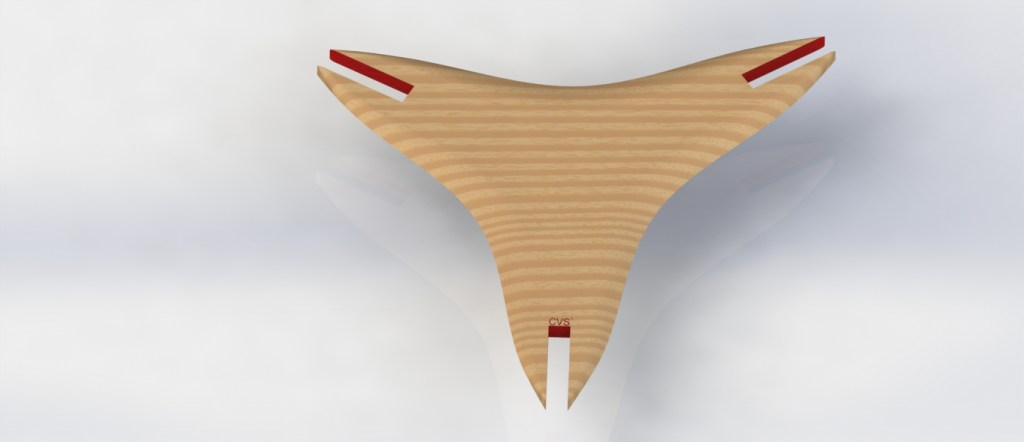
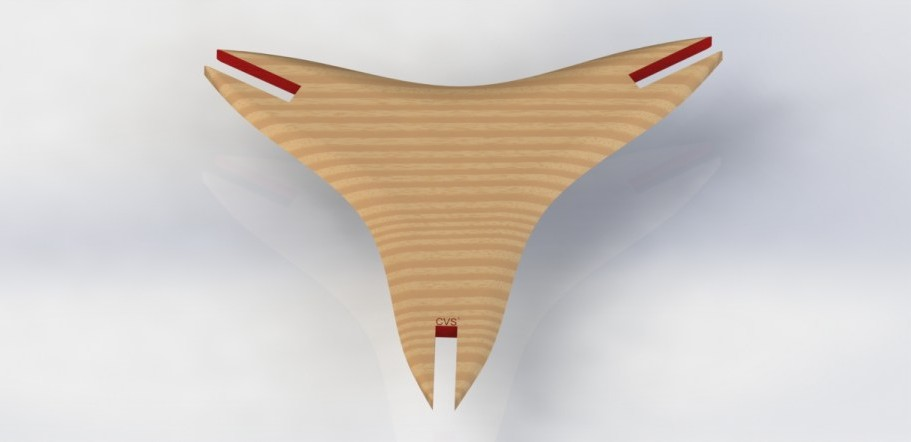
update portfolio content, images, and hero text styling

Changed region(s): [[0.2151, 0.0588, 0.8299, 1.0]]

diff --git a/src/content/pages/ai-hardware.md b/src/content/pages/ai-hardware.md
@@ -3,19 +3,14 @@ title: "ai classroom hardware"
 date: 2024-10-09
 coverImage: "mirror-high-five.gif"
 layoutType: "technical"
+textColor: "black"
 images:
-  - "/images/2023-04-12-10_57_41-greenshot-e1728510886911.png"
   - "/images/mirror-whiteboard-session.png"
   - "/images/mirror-small-group.png"
-  - "/images/mirror-teacher-recording.png"
   - "/images/pxl_20211203_002824160.mp_-3185202769-e1729025421742.jpg"
   - "/images/pxl_20211202_232534805.mp_-2051497039-e1729025410760.jpg"
-  - "/images/pxl_20211202_232531458.mp_-1566207325-e1729025401416.jpg"
   - "/images/pxl_20211021_223714859.mp_.jpg"
-  - "/images/pxl_20211021_224046795.mp_.jpg"
   - "/images/pxl_20211021_225324348.mp_.jpg"
-  - "/images/pxl_20210628_234803498.mp_.jpg"
-  - "/images/pxl_20210628_180836918.mp_.jpg"
   - "/images/pxl_20211022_191926400.mp_.jpg"
   - "/images/pxl_20211012_024155031.mp_.jpg"
   - "/images/pxl_20210816_225646028.mp_.jpg"
@@ -32,9 +27,8 @@ images:
   - "/images/pxl_20230822_224554640.jpg"
 ---
 
-_With the help of AI, Mirror fully automates the reflection process for students while its unique design allows the device to be set up anywhere._  
+_The goal of this project was to leverage AI to automate the reflection process for students with its rugged design allowing for use anywhere._  
   
-_[\- Swivl](https://www.swivl.com/)_
 
 As one of only two engineers on this project, I was involved in every part of every phase - from pre-concept development to the first shipments. The product is a battery powered integrated speaker, friction hinge mounted touch display, microphone array, and camera with an IR tracking remote packaged in a ruggedized form custom designed for the classroom.
 
@@ -42,31 +36,17 @@ As one of only two engineers on this project, I was involved in every part of ev
 
 My focus of interest was on Experience Design, approaching questions like: What diameter does a hand want for the rollbar/handle system? What is the optimal display size for human-like interaction? How vital is audio to creating an immersive, real-person feel? Do red LEDs look scary? To answer these questions, I led extensive brainstorming, iterative design cycles, and limited scale user testing at all stages of product development.
 
-![Whiteboard Session](/images/mirror-whiteboard-session.png)
-![Small Group Session](/images/mirror-small-group.png)
 ![Teacher Recording](/images/mirror-teacher-recording.png)
 
 Dividing responsibilities between the two engineers, I owned the Remote, the protective hinge and roll-cage system, and all interfaces with cables, accessories, and docking. I also initially lead PN and BOM control. After my colleague left before project completion, I inherited the entire mechanical system for a time, ensuring continuity and successful delivery.
 
-### Media Gallery
-- ![](/images/pxl_20211203_002824160.mp_-3185202769-e1729025421742.jpg)
-- ![](/images/pxl_20211202_232534805.mp_-2051497039-e1729025410760.jpg)
-- ![](/images/pxl_20211202_232531458.mp_-1566207325-e1729025401416.jpg)
-
 Prototyping was the main driver to our design cycles. There was constant iteration with materials from pine 2x4s, to repurposed products with in-house 3d printed housings, to professional out-sourced prototypes. Prototypes included looks-like and works-like of the full assembly, subassemblies, accessories, and single parts.
 
-![Prototype 1](/images/pxl_20211021_223714859.mp_.jpg)
-![Prototype 2](/images/pxl_20211021_224046795.mp_.jpg)
-![Prototype 3](/images/pxl_20211021_225324348.mp_.jpg)
 ![Prototype 4](/images/pxl_20210628_234803498.mp_.jpg)
-![Prototype 5](/images/pxl_20210628_180836918.mp_.jpg)
-![Prototype 6](/images/pxl_20211022_191926400.mp_.jpg)
+
 
 Material studies were always a good source of information and inspiration. purchasing products for multiple team members or shipping samples proved an effective means of communication throughout this project. Although nothing could beat a few in-person sessions to drive points home efficiently.
 
-![Material Study 1](/images/pxl_20211012_024155031.mp_.jpg)
-![Material Study 2](/images/pxl_20210816_225646028.mp_.jpg)
-![Material Study 3](/images/pxl_20210817_163244849.mp_.jpg)
 
 A large part of my time was spent troubleshooting key user experience elements like speaker requirements, ensuring optimal performance across all orientations and environments while working closely with fancy audio consultants.
 

diff --git a/src/content/pages/cubert.md b/src/content/pages/cubert.md
@@ -5,7 +5,6 @@ coverImage: "708ee-87d8fb_8ac065e1df474288a64120cb3bb85575mv2.png"
 layoutType: "technical"
 images:
   - "/images/a7f8b-87d8fb_943a82df83fe430bb4b09da7b84bf121mv2.png"
-  - "/images/ab737-87d8fb_edf26a64fdec4bae898c34ba8a3a71c6mv2.jpg"
   - "/images/3ef2b-87d8fb_8c8603bb706340ababcdb353d5ba3396mv2.png"
   - "/images/dfabf-87d8fb_eb2e988f075b47239770366c4732a822mv2_d_2898_3353_s_4_2.png"
   - "/images/e9062-87d8fb_2dff519730aa4c41b771420b57241acamv2_d_2959_3865_s_4_2.png"
@@ -14,19 +13,20 @@ images:
   - "/images/073e9-87d8fb_62d085a0a8aa40c29ade1bcf03149a89mv2_d_2500_1875_s_2.jpg"
   - "/images/d2dda-87d8fb_a8a8fb5462f14fa5bccf26fb4baa2ae1mv2.jpg"
   - "/images/bd937-87d8fb_a8b2ce743cd942e487fca20a0e525bbemv2.jpg"
-  - "/images/11b1c-87d8fb_169a504af30549868de23833fd8fa139mv2.png"
 ---
 
-**Problem Statement:**  
-The carrying and use of multiple electrical cables easily leads to tangles and damage as well as inefficient utilization.
+_The goal of this university project was to solve a simple problem statement: carrying and using multiple cables is inefficient and the inevitable tangling damages them._
 
-Cubert was designed for young adults with mobile lifestyles. These individuals consistently carry multiple electrical cords to many locations throughout the day. This targeted audience often includes college kids and traveling business men and women. Our team chose this user group in order to broaden our theoretical market as much as possible and fill an empty niche in the electronic hub market.
+Cubert was designed for young adults with mobile lifestyles. These individuals consistently carry multiple electrical cords to many locations throughout the day. My team and I spent a lot of time researching existing competition as we figured there must be a lot out there already; surprisingly there wasn't.
 
-![Design Prototype 1](/images/a7f8b-87d8fb_943a82df83fe430bb4b09da7b84bf121mv2.png)
-![Design Prototype 2](/images/ab737-87d8fb_edf26a64fdec4bae898c34ba8a3a71c6mv2.jpg)
-![Design Prototype 3](/images/3ef2b-87d8fb_8c8603bb706340ababcdb353d5ba3396mv2.png)
+<br />
+<br />
+<br />
+<br />
+<br />
+<br />
 
-My team and I spent a lot of time researching existing competition as we figured there must be a lot out there already; surprisingly there wasn't really. The research, however, did lead us to a host of ideas.
+The research, however, did lead us to a host of ideas.
 
 ![Concept Sketch 1](/images/dfabf-87d8fb_eb2e988f075b47239770366c4732a822mv2_d_2898_3353_s_4_2.png)
 ![Concept Sketch 2](/images/e9062-87d8fb_2dff519730aa4c41b771420b57241acamv2_d_2959_3865_s_4_2.png)
@@ -44,5 +44,3 @@ A major portion of this project was the material research and ultimate choice fo
 ![Final Assembly](/images/11b1c-87d8fb_169a504af30549868de23833fd8fa139mv2.png)
 
 I took this opportunity to integrate electrical engineering interest with my mechanical engineering background and design passion. Thoroughly followed a concise design process with clear benchmarks and milestones, reinforcing good product development practices. I enjoyed brainstorming the details necessary to successfully create the modular design, numerous functionalities and features, and actual usability. In fact, the final prototype was very durable, electrically sound, and surprisingly functional for regular use out in the wild.
-
-[DOWNLOAD PROJECT PRESENTATION](/docs/afbcf-87d8fb_e4c8c189e373489486ae9085036f6478.pdf)

diff --git a/src/content/pages/igloo.md b/src/content/pages/igloo.md
@@ -9,7 +9,7 @@ _The Life & Death of an Igloo in 2015_
 
 We took advantage of the multiple blizzards that hit the northeastern United States in the harsh winter of 2015 and recruited friends and neighbors to build a formidable structure using vernacular architecture techniques.
 
-<div class="space-y-24 mt-20">
+<div class="space-y-24 mt-20 max-w-5xl mx-auto w-full px-4">
 
 <figure>
   <img src="/images/fac8b-87d8fb_fdb0b645e387478fbeaec209a10701c5mv2_d_3264_2448_s_4_2.jpg" alt="Building the base" />
@@ -57,11 +57,6 @@ We took advantage of the multiple blizzards that hit the northeastern United Sta
 </figure>
 
 <figure>
-  <img src="/images/83994-87d8fb_9629c86bc64347aabde7612563fbf2c8mv2_d_2448_3264_s_4_2.jpg" alt="First day progress" />
-  <figcaption>...and got about this far the first day.</figcaption>
-</figure>
-
-<figure>
   <img src="/images/11a1c-87d8fb_8892d2d85ec94e5eaddd5f7ac9431156mv2_d_2448_3264_s_4_2.jpg" alt="Excavation" />
   <figcaption>The excavation took a lot of energy from the crew.</figcaption>
 </figure>
@@ -73,12 +68,7 @@ We took advantage of the multiple blizzards that hit the northeastern United Sta
 
 <figure>
   <img src="/images/d670a-87d8fb_e5ac90a8533047e1ae0ae35a8284e644mv2_d_2816_1880_s_2.jpg" alt="Cleared interior" />
-  <figcaption>Finally cleared most of the unwanted ice and snow out. Could easily fit 5 well-fed college kids in the negative space we had created with our bare hands.</figcaption>
-</figure>
-
-<figure>
-  <img src="/images/71cf8-87d8fb_fab92247f82c4e50a33416514806ec1amv2_d_2816_1880_s_2.jpg" alt="Amenities" />
-  <figcaption>Music and other amenities were often brought along; with innovative installations for placement and acoustics.</figcaption>
+  <figcaption>Finally cleared most of the unwanted ice and snow out. Could easily fit 5 well-fed college kids. Music and other amenities were often brought along; with innovative installations for placement and acoustics.</figcaption>
 </figure>
 
 <figure>
@@ -97,13 +87,8 @@ We took advantage of the multiple blizzards that hit the northeastern United Sta
 </figure>
 
 <figure>
-  <img src="/images/2e7ec-87d8fb_99d6cf83eec34a6b8a046e4d87bd1144mv2_d_2816_1880_s_2.jpg" alt="Environment" />
-  <figcaption>The surrounding environment of the work site and the inspiration.</figcaption>
-</figure>
-
-<figure>
   <img src="/images/2af74-87d8fb_09d82f98d4164e988ecb749df0adfb27mv2_d_3264_2448_s_4_2.jpg" alt="Phase change" />
-  <figcaption>The igloo nearly completed its phase change in about four weeks; which can be used to calculate a rate of 1 igloo per winter season.</figcaption>
+  <figcaption>The igloo nearly completed its phase change (death) in about four weeks; which can be used to calculate a rate of 1 igloo per winter season.</figcaption>
 </figure>
 
 </div>

diff --git a/src/content/pages/wwjdedits.md b/src/content/pages/wwjdedits.md
@@ -25,18 +25,22 @@ gallery2:
   - "il_fullxfull.6975788596_qg04.jpg"
   - "il_fullxfull.7023774595_b8zh.jpg"
   - "il_fullxfull.6975789992_6bl4.jpg"
-  - "il_fullxfull.6981842584_71ti.jpg"
   - "il_fullxfull.7029821665_s0do.jpg"
-  - "il_fullxfull.6981842592_5ed2.jpg"
   - "il_fullxfull.7029821511_etw0.jpg"
-  - "il_fullxfull.6975678414_qk4l.jpg"
   - "il_fullxfull.6975678410_ask9.jpg"
-  - "il_fullxfull.6975678418_6u91.jpg"
-  - "il_fullxfull.7023663053_jfrg.jpg"
-  - "il_fullxfull.6982242178_2emy.jpg"
   - "il_fullxfull.6982242256_lwlh.jpg"
-  - "il_fullxfull.7030220855_a7sv.jpg"
-  - "il_fullxfull.7030220913_fsuh.jpg"
+  - "il_fullxfull.7030132243_6ir3.jpg"
+  - "il_fullxfull.6982153228_byi4.jpg"
+  - "il_fullxfull.6982153390_n6on.jpg"
+  - "il_fullxfull.7030132061_ilt9.jpg"
+  - "il_fullxfull.6975726322_swaw.jpg"
+  - "il_fullxfull.7023710025_hx2t.jpg"
+  - "il_fullxfull.7023710035_6igm.jpg"
+  - "il_fullxfull.7023723339_jgb0.jpg"
+  - "il_fullxfull.6975681594_9wep.jpg"
+  - "il_fullxfull.7023666125_mwqy.jpg"
+  - "il_fullxfull.7023666127_j00j.jpg"
+  - "il_fullxfull.7023666161_rswc.jpg"
   - "il_fullxfull.6975619878_s4o3.jpg"
   - "il_fullxfull.6975620056_qq6c.jpg"
   - "il_fullxfull.7023604615_4pdf.jpg"
@@ -45,6 +49,10 @@ gallery2:
   - "IMG_1226.JPG"
   - "IMG_1230.JPG"
   - "IMG_1234.JPG"
+  - "il_fullxfull.6982015384_rxur.jpg"
+  - "il_fullxfull.6982015388_6l0m.jpg"
+  - "il_fullxfull.6982015392_a2oh.jpg"
+  - "il_fullxfull.6982015716_svr9.jpg"
   - "IMG_1238.JPG"
   - "IMG_1258.JPG"
   - "IMG_1260.JPG"
@@ -57,6 +65,7 @@ gallery2:
   - "IMG_1457.JPG"
   - "IMG_1497.JPG"
   - "IMG_1470.JPG"
+
 ---
 
 _Textile production is the world’s second most polluting industry, second only to the oil industry. <a href="https://pmc.ncbi.nlm.nih.gov/articles/PMC8257395/" target="_blank" class="text-[10px] align-top ml-1 hover:underline text-white/40"><sup>[1]</sup></a>_

diff --git a/src/content/pages/automotive-uim.md b/src/content/pages/automotive-uim.md
@@ -21,9 +21,9 @@ images:
   - "/images/3c54f-87d8fb_67a48e1de3484b8ca07f971b6e8a54dfmv2_d_2985_3980_s_4_2.jpg"
 ---
 
-![Header Image](/images/bb857-87d8fb_b72b4a631e574a71832b4d1848805cc7mv2_d_4141_2083_s_2.jpg)
+_The goal of this project was to safely mount a custom user interface module connected to our BAC sensor systems for in-vehicle testing and looking good on tv._
 
-_See the completed project on the local news: <a href="https://www.kpax.com/news/national/under-proposed-law-alcohol-sensors-could-become-as-commonplace-as-airbags-in-new-vehicles" target="_blank" class="underline hover:text-white/80 transition-colors">kpax news</a>_
+See the completed project on the local news: <a href="https://www.kpax.com/news/national/under-proposed-law-alcohol-sensors-could-become-as-commonplace-as-airbags-in-new-vehicles" target="_blank" class="underline hover:text-white/80 transition-colors">kpax news</a>
 
 I have never before encountered the frustrations SolidWorks offers our world before this automotive design project. I spent weeks learning the software's surfacing tools to create a housing for a PCB + sheet metal user interface system. It was designed to be permanently mounted on a 2017 GM vehicle dashboard. Additive manufacturing was the fabrication method of choice due to the design complexity and need for prototype iterations.
 

diff --git a/src/content/pages/automated-fluid-handling.md b/src/content/pages/automated-fluid-handling.md
@@ -9,7 +9,7 @@ embeds:
   - "https://sketchfab.com/models/a2378674ac1b4bd5b4849375c2bcac3d/embed"
   - "https://sketchfab.com/models/032ffc50b08d47f4bcf2b5bbe7d70203/embed"
 images:
-  - "/images/475b7-87d8fb_b44b2b263a634e5eaf5405a405ddba40mv2_d_9600_7200_s_4_2.png"
+  - "/images/fluidhandlingcropped.png"
   - "/images/3d34b-87d8fb_daf0b92055da4c87b8ca50f4980fb9a5mv2.png"
   - "/images/2e6e8-87d8fb_61d6924afa114fbe92a1108a83cf0034mv2.png"
   - "/images/4396f-87d8fb_08a71b9d2c6b4767af8ef0c624d3842bmv2_d_5312_2988_s_4_2.jpg"

diff --git a/src/content/pages/teacher-robot.md b/src/content/pages/teacher-robot.md
@@ -1,8 +1,9 @@
 ---
 title: "teacher's robot"
 date: 2024-10-09
-coverImage: "img_2485-3610848154-e1726701172599.jpg"
+coverImage: "swivl-robot-for-website2.png"
 layoutType: "technical"
+textColor: "black"
 images:
   - "/images/swivl-robot-for-website.png"
   - "/images/pxl_20210223_192735271.mp_.jpg"

diff --git a/src/content/pages/experience-design.md b/src/content/pages/experience-design.md
@@ -1,6 +1,6 @@
 ---
 title: "prototyping for experience design"
-coverImage: "2b47c-87d8fb_14e668aefe594fbcb311ebfea83668abmv2_d_4078_2719_s_4_2.jpg"
+coverImage: "8b7af-87d8fb_7fd0e294b40149628a73f75e8fe843eemv2_d_2899_5153_s_4_2-1733398724-e1726701565762.jpg"
 layoutType: "organic"
 ---
 

diff --git a/src/content/pages/remote.md b/src/content/pages/remote.md
@@ -1,7 +1,8 @@
 ---
 title: "wearable remote"
-coverImage: "asset-14010x-3984956681-e1726700858646.png"
+coverImage: "remote-hand.png"
 layoutType: "technical"
+textColor: "black"
 images:
   - "/images/mirror-teacher-reflecting.png"
   - "/images/pxl_20230106_022407008.mp_.jpg"

diff --git a/src/content/pages/triangle-toys.md b/src/content/pages/triangle-toys.md
@@ -1,7 +1,7 @@
 ---
 title: "triangle toys"
 date: 2024-04-04
-coverImage: "a8fd8-87d8fb_3c14762fea514dacbf40997f686c2f80mv2.jpg"
+coverImage: "trianglecoverphoto.jpg"
 layoutType: "organic"
 ---
 
